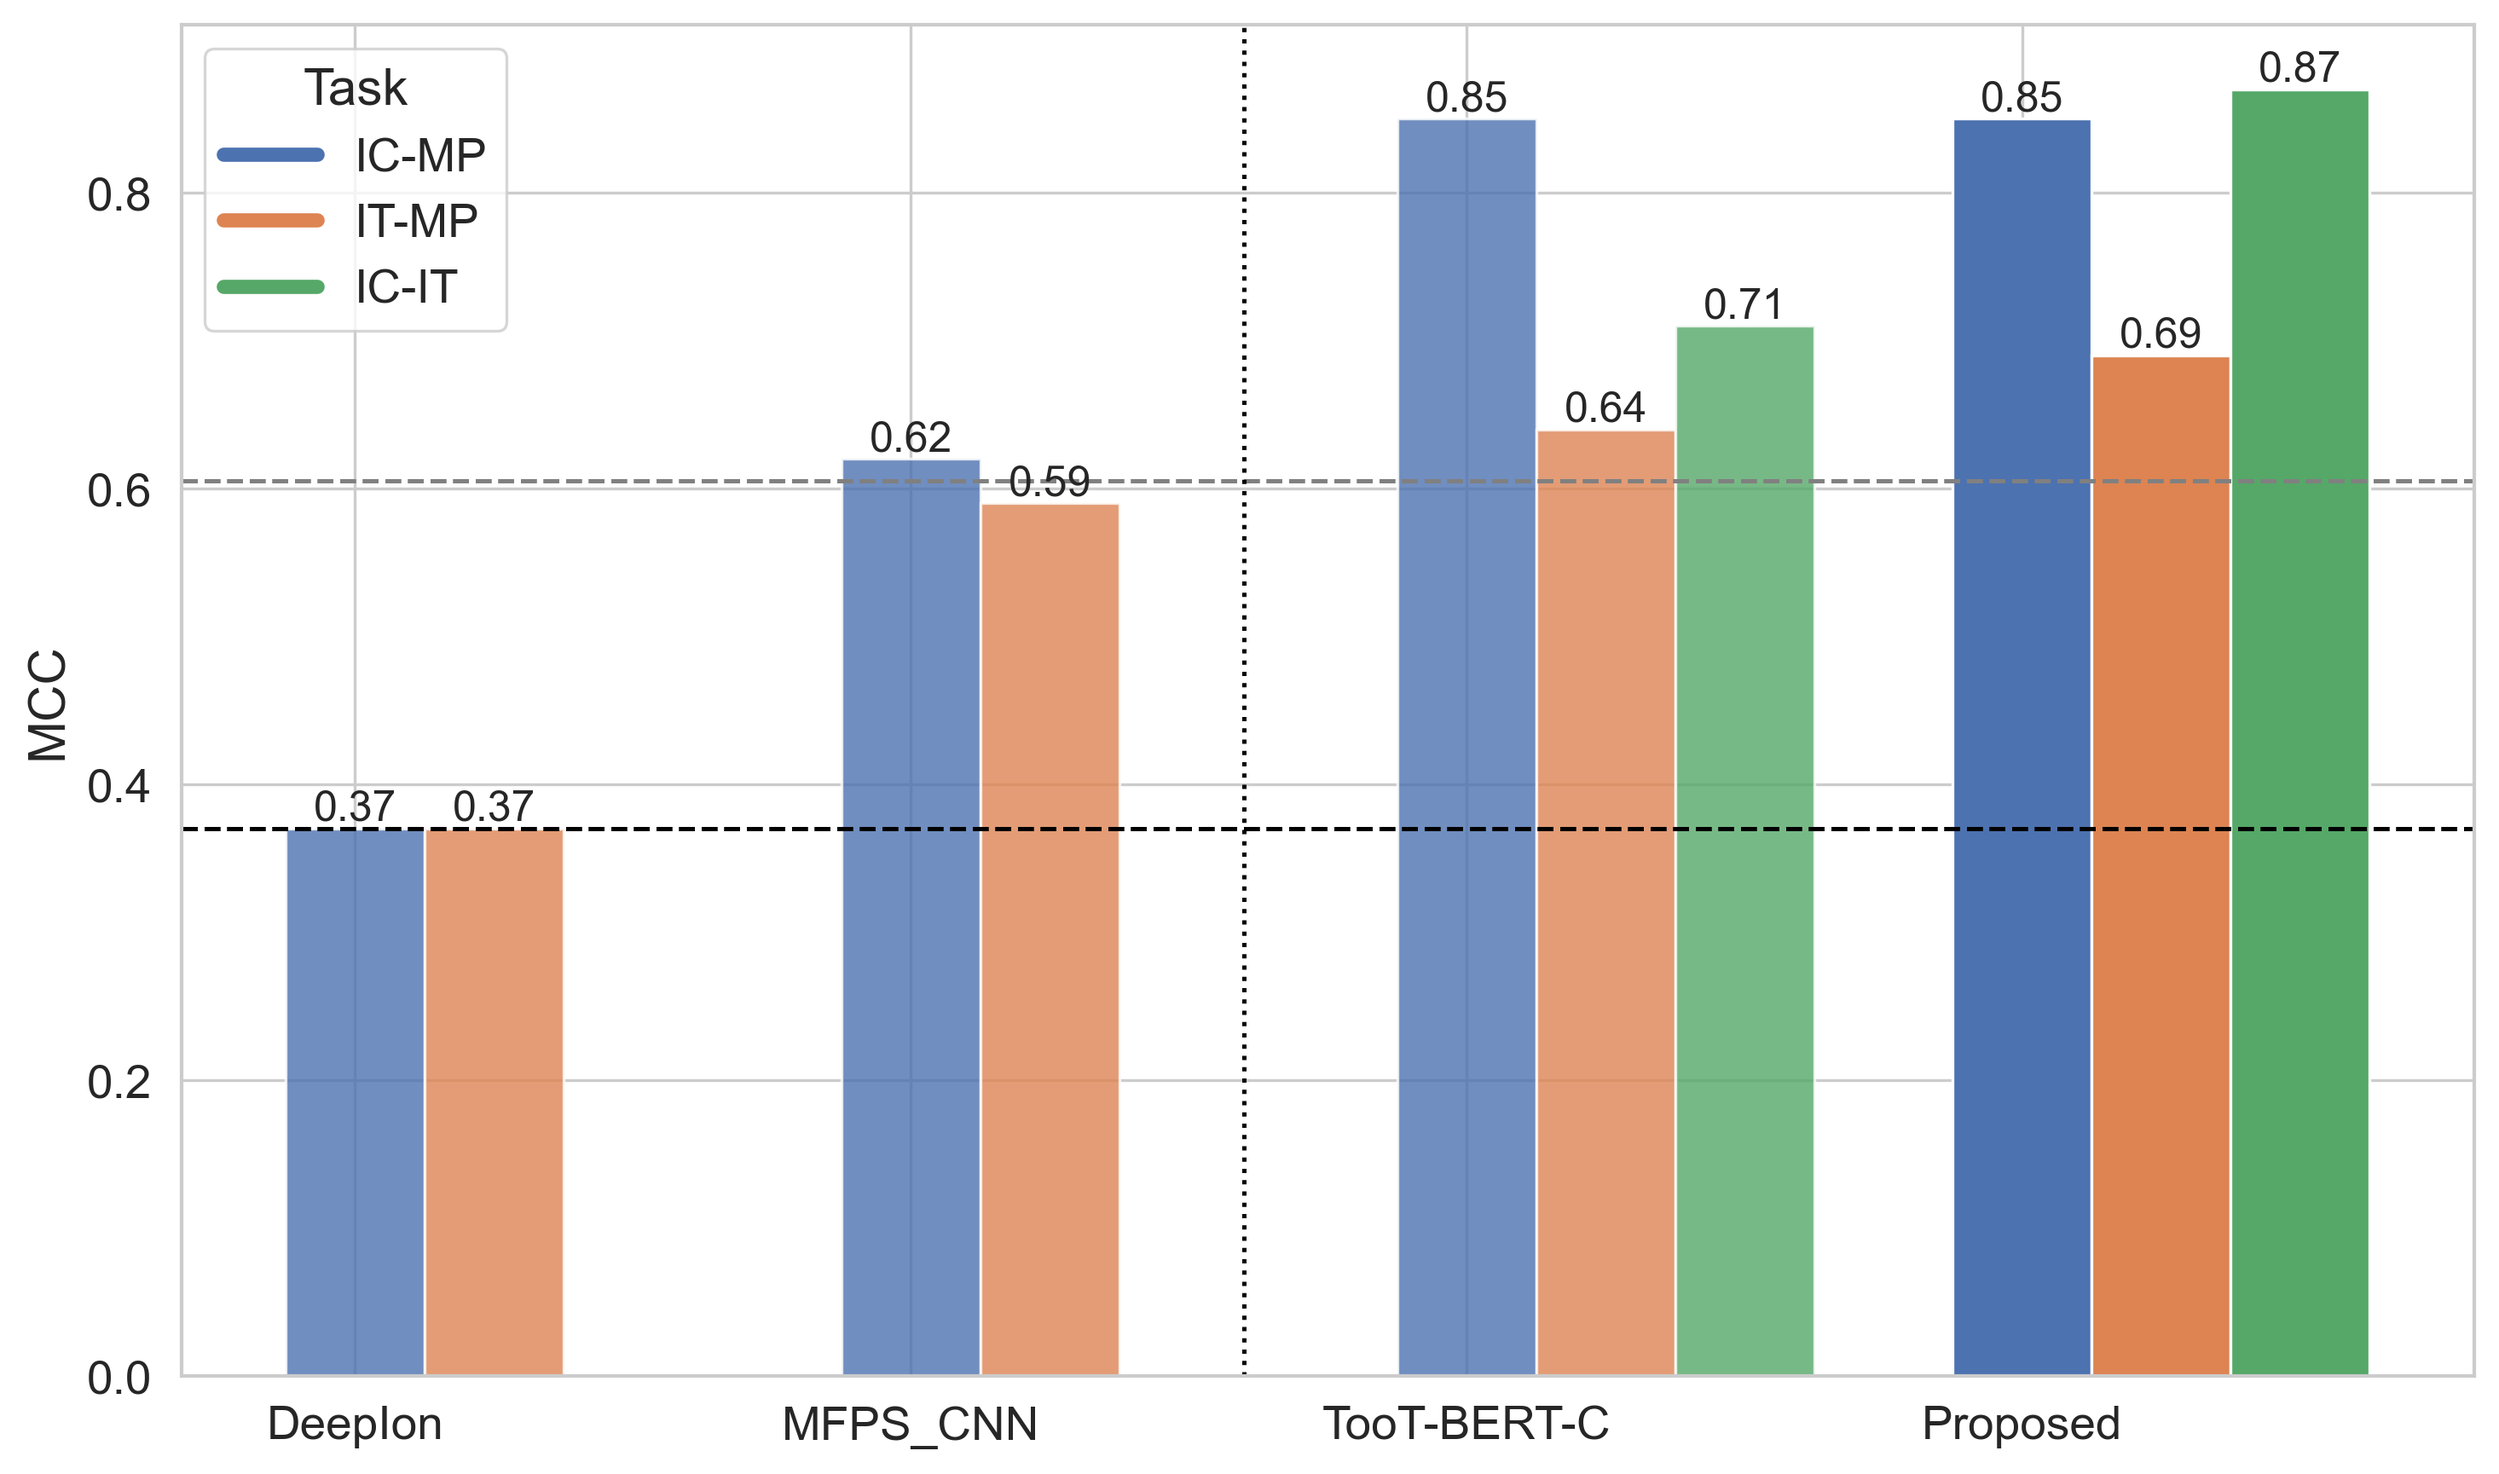
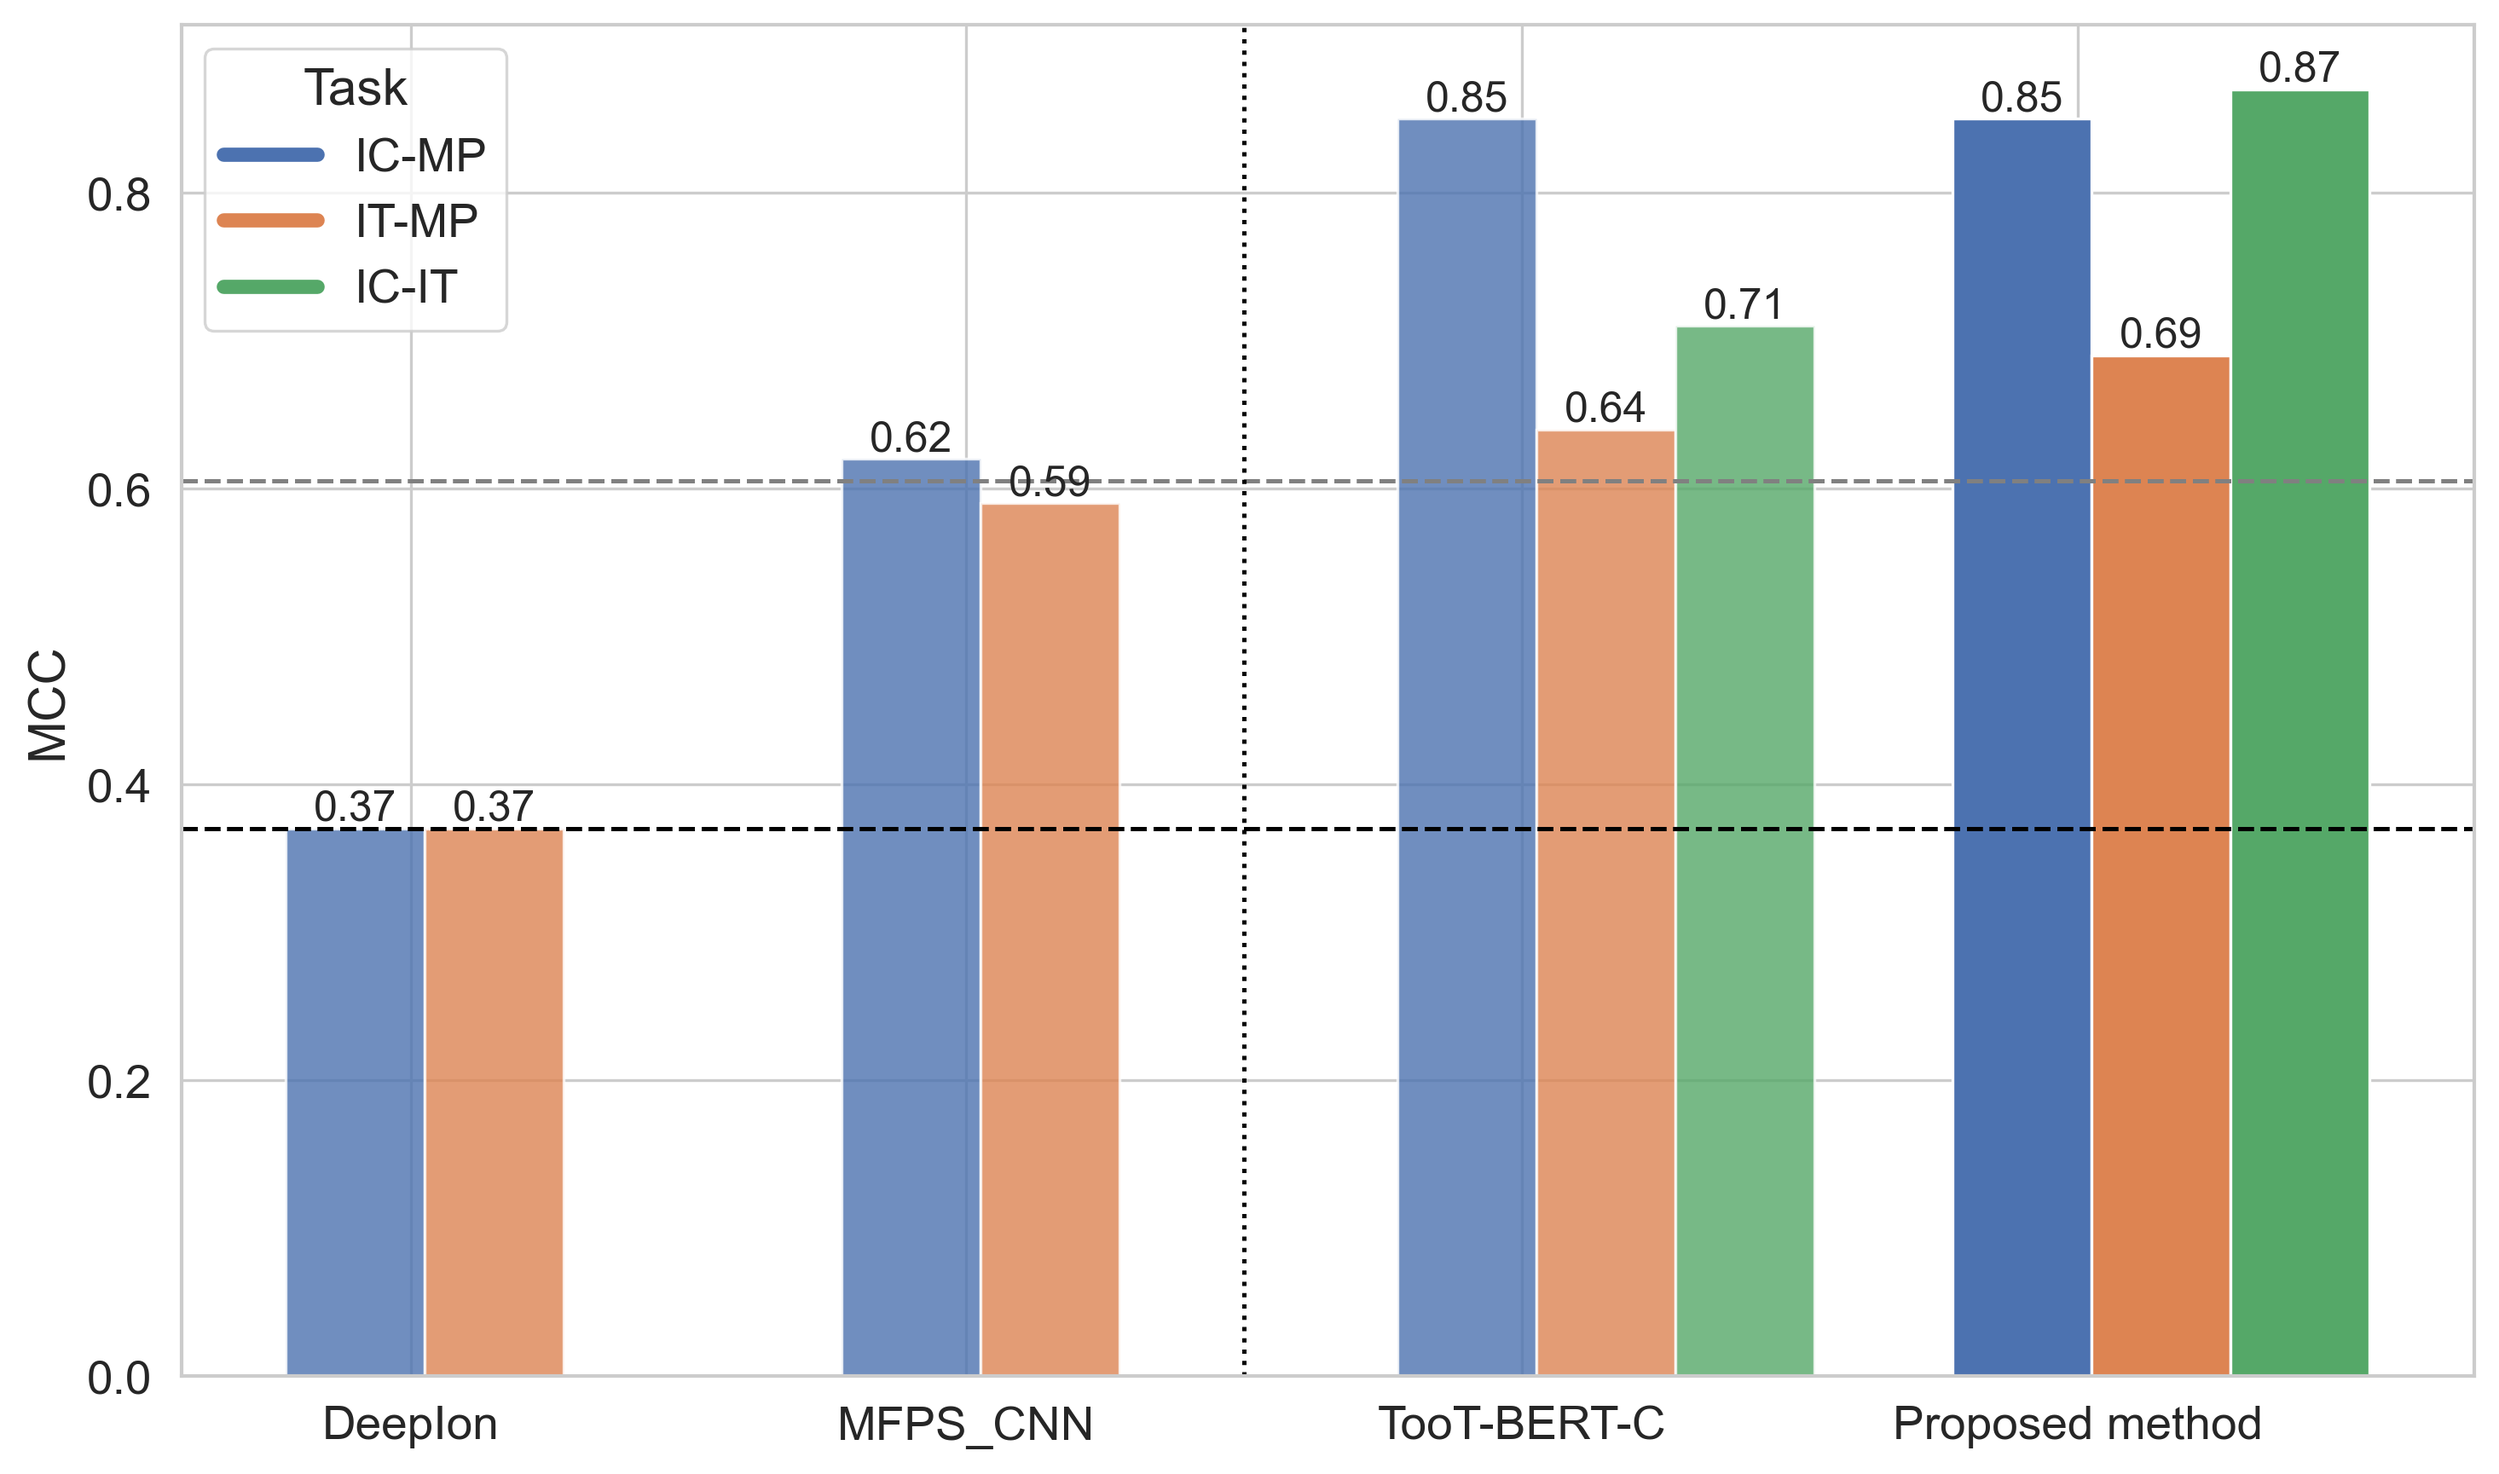
remove plots

diff --git a/make_table_soa.py b/make_table_soa.py
@@ -18,9 +18,9 @@ data = [
     ['TooT-BERT-C', 'IC-MP', 'ProtBERT-BFD', 'LR', 98.24, 0.85],
     ['TooT-BERT-C', 'IT-MP', 'ProtBERT-BFD', 'LR', 95.43, 0.64],
     ['TooT-BERT-C', 'IC-IT', 'ProtBERT-BFD', 'LR', 85.38, 0.71],
-    ['Proposed', 'IC-MP', 'ESM-1b', 'LR', 98.24, 0.85],
-    ['Proposed', 'IT-MP', 'ESM-1b', 'LR', 95.98, 0.69],
-    ['Proposed', 'IC-IT', 'ESM-2', 'CNN', 93.85, 0.87]
+    ['Proposed method', 'IC-MP', 'ESM-1b', 'LR', 98.24, 0.85],
+    ['Proposed method', 'IT-MP', 'ESM-1b', 'LR', 95.98, 0.69],
+    ['Proposed method', 'IC-IT', 'ESM-2', 'CNN', 93.85, 0.87]
 ]
 
 columns = ['Project', 'Task', 'Encoder', 'Classifier', 'Accuracy', 'MCC']
@@ -76,7 +76,8 @@ plt.axhline(y=mfps_cnn_mcc, linestyle='--', color='gray')
 # Add vertical line to separate MFPS_CNN and TooT-BERT-C
 plt.axvline(x=1.6, linestyle=':', color='black')
 
-plt.xticks(range(len(df["Project"].unique())), df["Project"].unique())
+# We make the xticks in the middle of the bars
+plt.xticks(np.arange(0.1, len(df["Project"].unique()) + 0.1, 1), df["Project"].unique())
 plt.ylabel("MCC")
 
 # Create a custom legend
@@ -95,7 +96,7 @@ for p in ax.patches:
 
 plt.tight_layout()
 plt.savefig(os.path.join(settings.LATEX_PATH, "independent_soa_cnn.png"), bbox_inches='tight', dpi=300)
-
+plt.close()
 
 # We load the results
 df = pd.read_csv(os.path.join(settings.RESULTS_PATH + "results_best_test.csv"))
